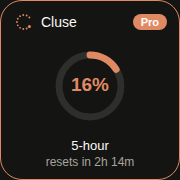
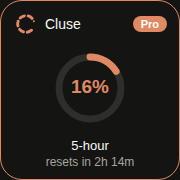
Redraw the launcher mark as a segmented C.
The icon is a thick terracotta arc in five curved pieces, with one dot just past the upper-right end, on a cream rounded square. The same mark is used for the adaptive icon, splash, compact widget, and feature graphic.

diff --git a/mobile/src/widget-rings.tsx b/mobile/src/widget-rings.tsx
@@ -111,7 +111,7 @@ export function CompactWidget({
     >
       <FlexWidget style={{ flexDirection: 'row', width: 'match_parent', alignItems: 'center', justifyContent: 'space-between' }}>
         <FlexWidget style={{ flexDirection: 'row', alignItems: 'center' }}>
-          <SvgWidget svg={markSvg(colors.accent)} style={{ width: 22, height: 22 }} />
+          <SvgWidget svg={markSvg(colors.accent)} style={{ width: 26, height: 26 }} />
           <TextWidget text="Cluse" style={{ fontSize: 14, color: colors.ink, marginLeft: 6 }} />
         </FlexWidget>
         {plan ? (
@@ -208,16 +208,32 @@ export function ringSvg(percent: number | null, color: string, track: string): s
 }
 
 export function markSvg(color: string): string {
-  const beads = [];
-  const count = 11;
-  const start = (40 * Math.PI) / 180;
-  const sweep = (280 * Math.PI) / 180;
-  for (let i = 0; i < count; i += 1) {
-    const angle = start + (sweep * i) / (count - 1);
-    const x = 50 + 32 * Math.cos(angle);
-    const y = 50 - 32 * Math.sin(angle);
-    const radius = i === count - 1 ? 7 : 4.2;
-    beads.push(`<circle cx="${x.toFixed(1)}" cy="${y.toFixed(1)}" r="${radius}" fill="${color}"/>`);
+  const cx = 50;
+  const cy = 50;
+  const radius = 32;
+  const stroke = 11;
+  const segments = 5;
+  const start = 48;
+  const gap = 26;
+  const piece = (318 - start - (segments - 1) * gap) / segments;
+  const arcs = [];
+  let last = start;
+  for (let i = 0; i < segments; i += 1) {
+    const a0 = start + i * (piece + gap);
+    const a1 = a0 + piece;
+    last = a1;
+    const p0 = polar(cx, cy, radius, a0);
+    const p1 = polar(cx, cy, radius, a1);
+    arcs.push(
+      `<path d="M ${p0.x.toFixed(2)} ${p0.y.toFixed(2)} A ${radius} ${radius} 0 0 1 ${p1.x.toFixed(2)} ${p1.y.toFixed(2)}" fill="none" stroke="${color}" stroke-width="${stroke}" stroke-linecap="round"/>`,
+    );
   }
-  return `<svg xmlns="http://www.w3.org/2000/svg" viewBox="0 0 100 100">${beads.join('')}</svg>`;
+  const dot = polar(cx, cy, radius, last + 22);
+  const dotRadius = stroke * 0.34;
+  return `<svg xmlns="http://www.w3.org/2000/svg" viewBox="0 0 100 100">${arcs.join('')}<circle cx="${dot.x.toFixed(2)}" cy="${dot.y.toFixed(2)}" r="${dotRadius.toFixed(2)}" fill="${color}"/></svg>`;
+}
+
+function polar(cx: number, cy: number, radius: number, degrees: number): { x: number; y: number } {
+  const rad = (degrees * Math.PI) / 180;
+  return { x: cx + radius * Math.cos(rad), y: cy + radius * Math.sin(rad) };
 }

diff --git a/relay/test/e2e.test.js b/relay/test/e2e.test.js
@@ -59,8 +59,9 @@ test('the helper publishes to the local relay and the phone decrypts it', async 
 
     const raw = await mf.dispatchFetch(`${origin}/v1/devices/${config.relay.deviceId}`);
     const stored = await raw.json();
+    assert.equal(stored.plan, undefined);
+    assert.equal(stored.windows, undefined);
     assert.equal(JSON.stringify(stored).includes('Sample'), false);
-    assert.equal(JSON.stringify(stored).includes('86'), false);
   } finally {
     await mf.dispose();
   }

diff --git a/mobile/scripts/make-icons.py b/mobile/scripts/make-icons.py
@@ -87,15 +87,42 @@ def round_rect(buf, w, h, radius, color):
                 put(buf, w, h, x, y, color)
 
 
-def mark(buf, w, h, cx, cy, radius, bead, color, count=14):
-    start = math.radians(40)
-    sweep = math.radians(280)
-    for i in range(count):
-        angle = start + sweep * i / (count - 1)
-        x = cx + radius * math.cos(angle)
-        y = cy - radius * math.sin(angle)
-        size = bead * 1.7 if i == count - 1 else bead
-        disc(buf, w, h, x, y, size, color)
+def mark_geometry(segments=5):
+    """Pillow angles: 0 is east, clockwise. The C opens on the right and ends upper-right."""
+    start = 48
+    end = 318
+    gap = 26
+    piece = (end - start - (segments - 1) * gap) / segments
+    return start, end, gap, piece
+
+
+def draw_mark(draw, cx, cy, radius, thickness, color, segments=5):
+    start, _end, gap, piece = mark_geometry(segments)
+    box = [cx - radius, cy - radius, cx + radius, cy + radius]
+    cap = thickness / 2
+    last = start
+    for i in range(segments):
+        a0 = start + i * (piece + gap)
+        a1 = a0 + piece
+        last = a1
+        draw.arc(box, a0, a1, fill=color, width=int(round(thickness)))
+        for angle in (a0, a1):
+            point = _polar(cx, cy, radius, angle)
+            draw.ellipse(_circle(point, cap), fill=color)
+    # A gap past the upper-right cap, then one solid dot.
+    dot_angle = last + 22
+    dot = _polar(cx, cy, radius, dot_angle)
+    draw.ellipse(_circle(dot, thickness * 0.34), fill=color)
+
+
+def _polar(cx, cy, radius, degrees):
+    rad = math.radians(degrees)
+    return cx + radius * math.cos(rad), cy + radius * math.sin(rad)
+
+
+def _circle(point, radius):
+    x, y = point
+    return [x - radius, y - radius, x + radius, y + radius]
 
 
 def text(buf, w, h, x, y, message, color, scale=4):
@@ -131,27 +158,34 @@ def write_png(path, w, h, buf):
 
 
 def main():
+    from PIL import Image, ImageDraw
+
     ROOT.mkdir(parents=True, exist_ok=True)
-    icon = blank(1024, 1024, CLEAR)
-    round_rect(icon, 1024, 1024, 220, CREAM)
-    mark(icon, 1024, 1024, 512, 512, 250, 34, TERRACOTTA)
-    write_png(ROOT / "icon.png", 1024, 1024, icon)
+    cream = (250, 249, 245, 255)
+    warm = (214, 196, 180, 255)
+    terracotta = (201, 100, 66, 255)
 
-    foreground = blank(1024, 1024, CLEAR)
-    mark(foreground, 1024, 1024, 512, 512, 230, 32, TERRACOTTA)
-    write_png(ROOT / "android-icon-foreground.png", 1024, 1024, foreground)
-    write_png(ROOT / "splash-icon.png", 1024, 1024, foreground)
+    icon = Image.new("RGBA", (1024, 1024), (0, 0, 0, 0))
+    draw = ImageDraw.Draw(icon)
+    draw.rounded_rectangle([0, 0, 1023, 1023], radius=228, fill=cream)
+    draw.rounded_rectangle([28, 28, 995, 995], radius=206, outline=warm, width=14)
+    draw_mark(draw, 512, 512, 300, 74, terracotta)
+    icon.save(ROOT / "icon.png")
 
-    background = blank(1024, 1024, CREAM)
-    write_png(ROOT / "android-icon-background.png", 1024, 1024, background)
+    foreground = Image.new("RGBA", (1024, 1024), (0, 0, 0, 0))
+    draw_mark(ImageDraw.Draw(foreground), 512, 512, 268, 66, terracotta)
+    foreground.save(ROOT / "android-icon-foreground.png")
+    foreground.save(ROOT / "splash-icon.png")
 
-    mono = blank(1024, 1024, CLEAR)
-    mark(mono, 1024, 1024, 512, 512, 230, 32, WHITE)
-    write_png(ROOT / "android-icon-monochrome.png", 1024, 1024, mono)
+    Image.new("RGBA", (1024, 1024), cream).save(ROOT / "android-icon-background.png")
 
-    favicon = blank(48, 48, CREAM)
-    mark(favicon, 48, 48, 24, 24, 12, 1.8, TERRACOTTA, 10)
-    write_png(ROOT / "favicon.png", 48, 48, favicon)
+    mono = Image.new("RGBA", (1024, 1024), (0, 0, 0, 0))
+    draw_mark(ImageDraw.Draw(mono), 512, 512, 268, 66, (255, 255, 255, 255))
+    mono.save(ROOT / "android-icon-monochrome.png")
+
+    favicon = Image.new("RGBA", (192, 192), cream)
+    draw_mark(ImageDraw.Draw(favicon), 96, 96, 62, 18, terracotta)
+    favicon.resize((48, 48), Image.Resampling.LANCZOS).save(ROOT / "favicon.png")
     feature_graphic()
 
 
